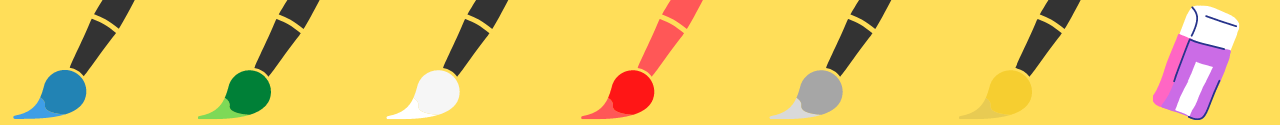
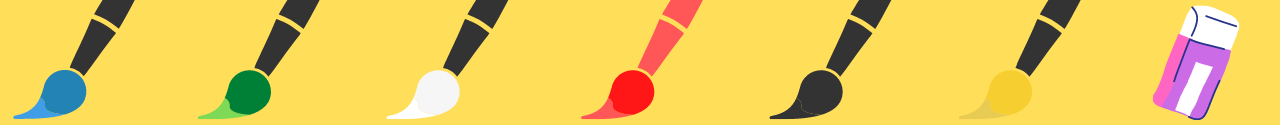
third commit

Changed region(s): [[0.5938, 0.552, 0.6562, 0.96]]

diff --git a/main.py b/main.py
@@ -22,12 +22,19 @@ mp_drawing = mp.solutions.drawing_utils
 mp_hands = mp.solutions.hands
 
 capture = cv.VideoCapture(0)
-
+black = (0,0,0)
+white = (255,255,255)
+blue = (255,0,0)
+red = (0,0,255)
+green = (0,255,0)
+yellow = (0,255,255)
+image_number = 0
+color = black
 with mp_hands.Hands(min_detection_confidence = 0.8, min_tracking_confidence = 0.5, max_num_hands = 2) as hands:
     while True:
         flag, frame = capture.read()
         frame = imutils.resize(frame, width=1280)
-        frame[0:125, 0:1280] = images_list[0]
+        frame[0:125, 0:1280] = images_list[image_number]
 
         image = cv.cvtColor(frame, cv.COLOR_BGR2RGB) # the form of the image that the media pipe accepts
         image = cv.flip(image, 1)
@@ -45,6 +52,35 @@ with mp_hands.Hands(min_detection_confidence = 0.8, min_tracking_confidence = 0.
                                           mp_drawing.DrawingSpec(color=(0, 0, 255), thickness=2, circle_radius=4),
                                           mp_drawing.DrawingSpec(color=(250, 44, 250), thickness=2, circle_radius=2),
                                           )
+                x = int(results.multi_hand_landmarks[0].landmark[mp_hands.HandLandmark.INDEX_FINGER_TIP].x * 1280)
+                y = int(results.multi_hand_landmarks[0].landmark[mp_hands.HandLandmark.INDEX_FINGER_TIP].y * 720)
+
+                if y >= 0 and y <= 125:
+                    if x >= 0 and x <= 163:
+                        # delete
+                        image_number = 6
+                        continue
+                    elif x >= 184 and x <= 344:
+                        color = yellow
+                        image_number = 4
+                    elif x >= 372 and x <= 535:
+                        color = black
+                        image_number = 5
+                    elif x >= 565 and x <= 724:
+                        color = red
+                        image_number = 3
+                    elif x >= 758 and x <= 916:
+                        color = white
+                        image_number = 2
+                    elif x >= 940 and x <= 1098:
+                        color = green
+                        image_number = 1
+                    elif x >= 1100 and x <= 1280:
+                        color = blue
+                        image_number = 0
+
+                cv.circle(image, (x,y), 10, color, thickness=4)
+                print(x, y)
 
         cv.imshow('Virtual Painter', image)
 
